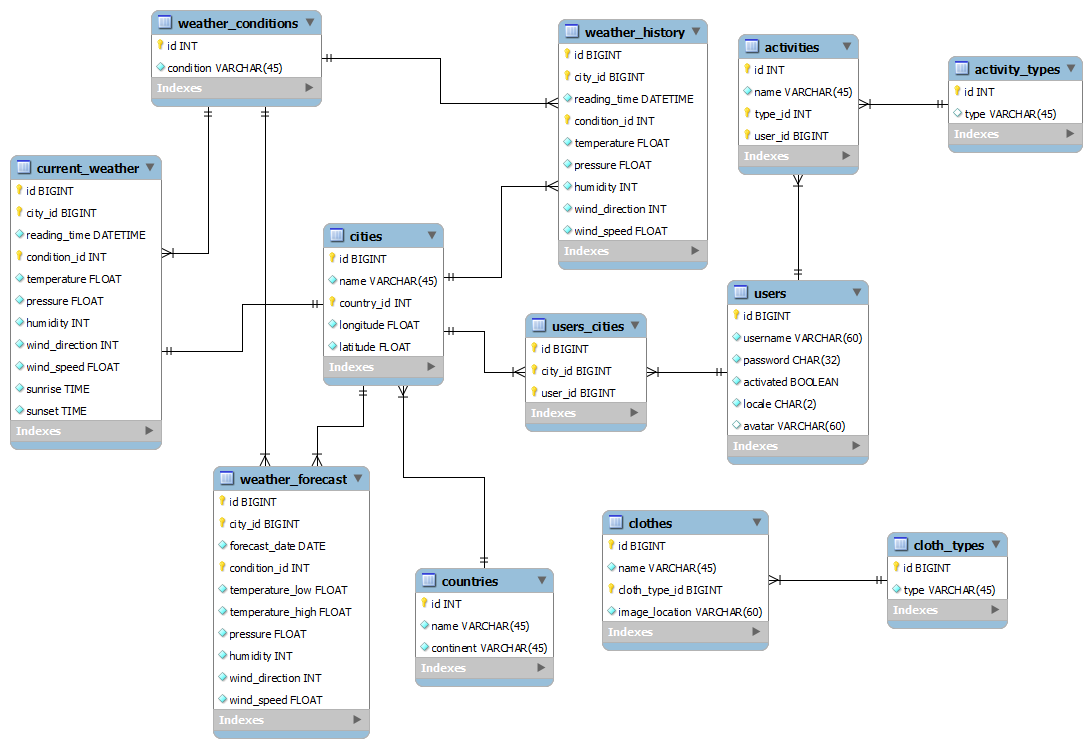
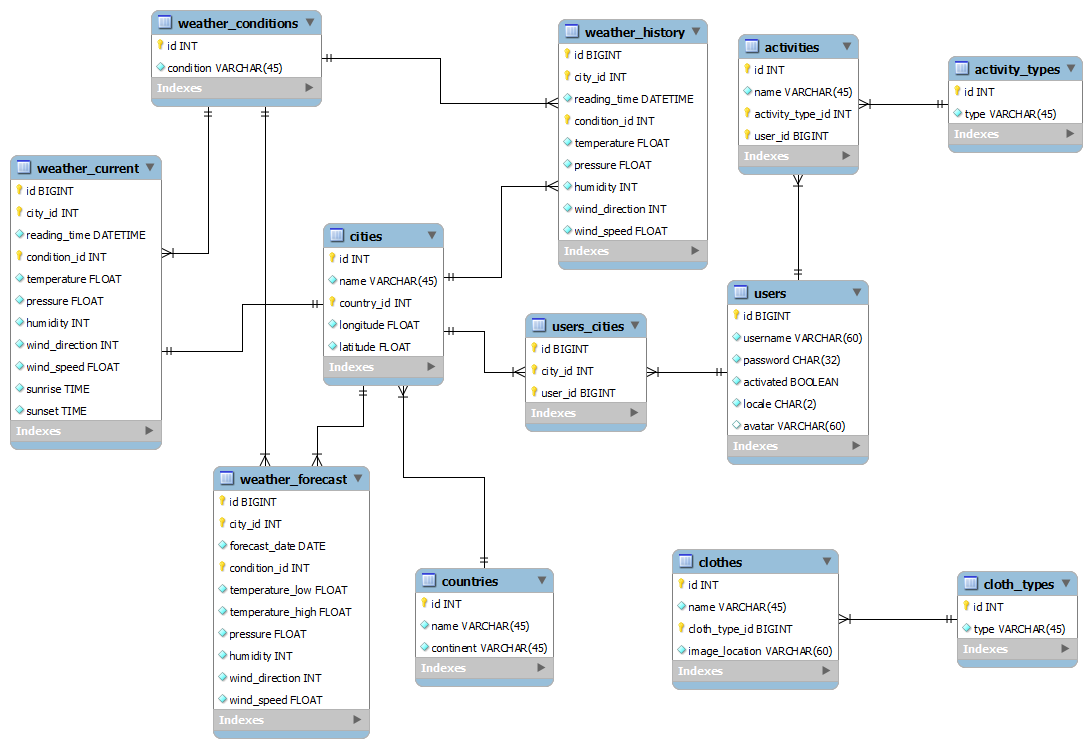
Database update
Updated database and added migration

diff --git a/laravel/app/database/migrations/2014_04_17_155350_database_setup.php b/laravel/app/database/migrations/2014_04_17_155350_database_setup.php
@@ -1,0 +1,145 @@
+<?php
+
+use Illuminate\Database\Schema\Blueprint;
+use Illuminate\Database\Migrations\Migration;
+
+class DatabaseSetup extends Migration {
+
+	/**
+	 * Run the migrations.
+	 *
+	 * @return void
+	 */
+	public function up()
+	{
+		Schema::create('countries', function(Blueprint $t)
+        {
+            $t->increments('id');
+            $t->string('name', 45);
+            $t->string('continent', 45);
+        });
+		
+		Schema::create('cities', function(Blueprint $t)
+        {
+            $t->increments('id');
+            $t->string('name', 45);
+			$t->integer('country_id')->references('id')->on('countries');
+			$t->float('longitude');
+			$t->float('latitude');
+        });
+		
+		Schema::create('weather_conditions', function(Blueprint $t)
+        {
+            $t->increments('id');
+			$t->string('condition', 45);
+        });
+		
+		Schema::create('weather_current', function(Blueprint $t)
+        {
+            $t->bigIncrements('id');
+			$t->integer('city_id')->references('id')->on('cities');
+			$t->dateTime('reading_time');
+			$t->integer('condition_id')->references('id')->on('weather_conditions');
+			$t->float('temperature');
+			$t->float('pressure');
+			$t->integer('humidity');
+			$t->integer('wind_direction');
+			$t->float('wind_speed');
+			$t->time('sunrise');
+			$t->time('sunset');
+        });
+		
+		Schema::create('weather_forecast', function(Blueprint $t)
+        {
+            $t->bigIncrements('id');
+			$t->integer('city_id')->references('id')->on('cities');
+			$t->date('forecast_date');
+			$t->integer('condition_id')->references('id')->on('weather_conditions');
+			$t->float('temperature_low');
+			$t->float('temperature_high');
+			$t->float('pressure');
+			$t->integer('humidity');
+			$t->integer('wind_direction');
+			$t->float('wind_speed');
+        });
+		
+		Schema::create('weather_history', function(Blueprint $t)
+        {
+            $t->bigIncrements('id');
+			$t->integer('city_id')->references('id')->on('cities');
+			$t->dateTime('reading_time');
+			$t->integer('condition_id')->references('id')->on('weather_conditions');
+			$t->float('temperature');
+			$t->float('pressure');
+			$t->integer('humidity');
+			$t->integer('wind_direction');
+			$t->float('wind_speed');
+        });
+		
+		Schema::create('users', function(Blueprint $t)
+        {
+            $t->bigIncrements('id');
+			$t->string('username', 60)->unique();
+			$t->string('password', 32);
+			$t->boolean('activated')->default('0');
+			$t->string('locale', 2);
+			$t->string('avatar', 60)->nullable();
+        });
+		
+		Schema::create('users_cities', function(Blueprint $t)
+        {
+            $t->bigIncrements('id');
+			$t->integer('city_id')->references('id')->on('cities');
+			$t->bigInteger('user_id')->references('id')->on('users');
+        });
+		
+		Schema::create('activity_types', function(Blueprint $t)
+        {
+            $t->increments('id');
+			$t->string('type', 45);
+        });
+		
+		Schema::create('activities', function(Blueprint $t)
+        {
+            $t->increments('id');
+			$t->string('name', 45);
+			$t->integer('activity_type')->references('id')->on('activity_types');
+			$t->bigInteger('user_id')->references('id')->on('users')->default('-1');
+        });
+		
+		Schema::create('cloth_types', function(Blueprint $t)
+        {
+            $t->increments('id');
+			$t->string('type', 45);
+        });
+		
+		Schema::create('clothes', function(Blueprint $t)
+        {
+            $t->increments('id');
+			$t->string('name', 45);
+			$t->integer('cloth_type_id')->references('id')->on('cloth_types');
+			$t->string('image_location', 60);
+        });	}
+
+	/**
+	 * Reverse the migrations.
+	 *
+	 * @return void
+	 */
+	public function down()
+	{
+		Schema::drop('clothes');
+		Schema::drop('cloth_types');
+		Schema::drop('activities');
+		Schema::drop('activity_types');
+		Schema::drop('users_cities');
+		Schema::drop('users');
+		Schema::drop('weather_history');
+		Schema::drop('weather_forecast');
+		Schema::drop('weather_current');
+		Schema::drop('weather_conditions');
+		Schema::drop('cities');
+		Schema::drop('countries');
+	}
+
+}
